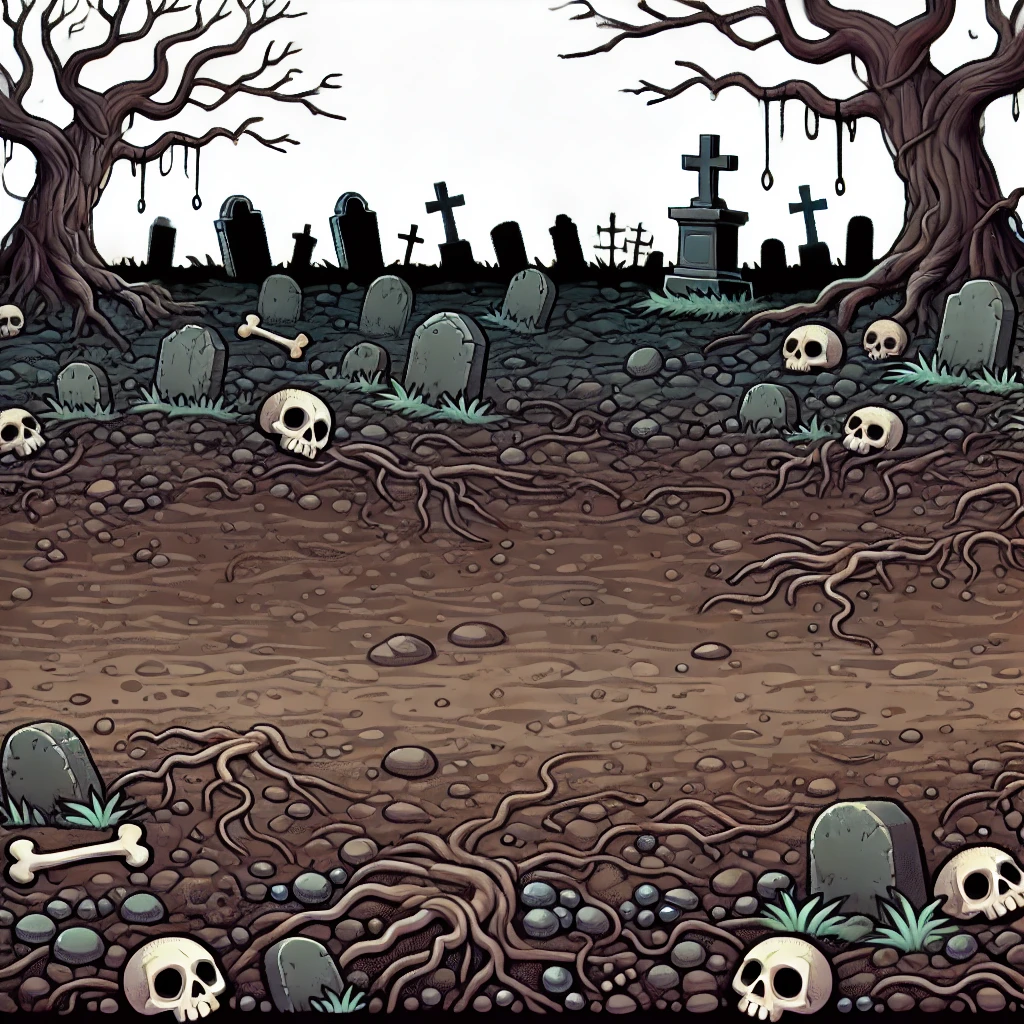
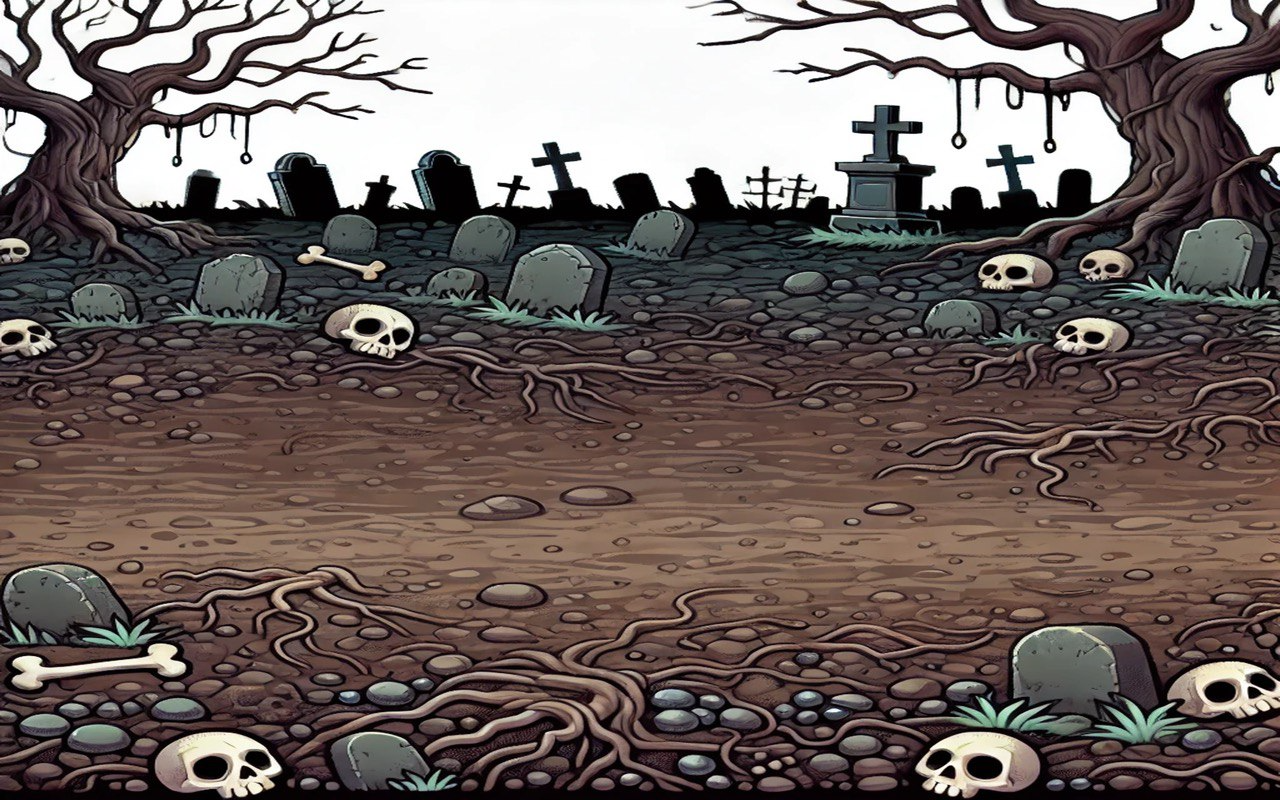
message

diff --git a/styles/style.css b/styles/style.css
@@ -9,6 +9,7 @@ body {
   
   #game-intro {
     padding: 0px 0px;
+   
   }
   
   #game-container {
@@ -26,21 +27,16 @@ body {
   
   #game-screen {
     display: none;
-    width: 1200px; /* Фиксированная ширина, как в JS */
-    height: 800px; /* Фиксированная высота */
+    width: 1675px; /* Фиксированная ширина, как в JS */
+    height: 720px; /* Фиксированная высота */
     margin: auto; /* Центрируем */
     overflow: hidden;
     position: relative;
     background-image: url(../images/zombie_bg.png);
     background-size: cover;
-    background-position: center; /* Центрируем фон */
-   /* display: none; 
-    align-content: center;
-    padding: 20px 0px;
+    padding: 0px;
     overflow: hidden;
-    position: relative;
-    background-image: url(../images/zombie_bg.png);
-    background-size: cover; */
+    
   
   }
   

diff --git a/js/game.js b/js/game.js
@@ -4,8 +4,8 @@ class Game {
         this.gameScreen = document.getElementById('game-screen');
         this.gameOverScreen = document.getElementById('game-end');
         this.player = null;
-        this.height = 800;
-        this.width = 1200;
+        this.height = 720;
+        this.width = 1675;
         this.obstacles = [];
         this.score = 0;
         this.lives = 5;
